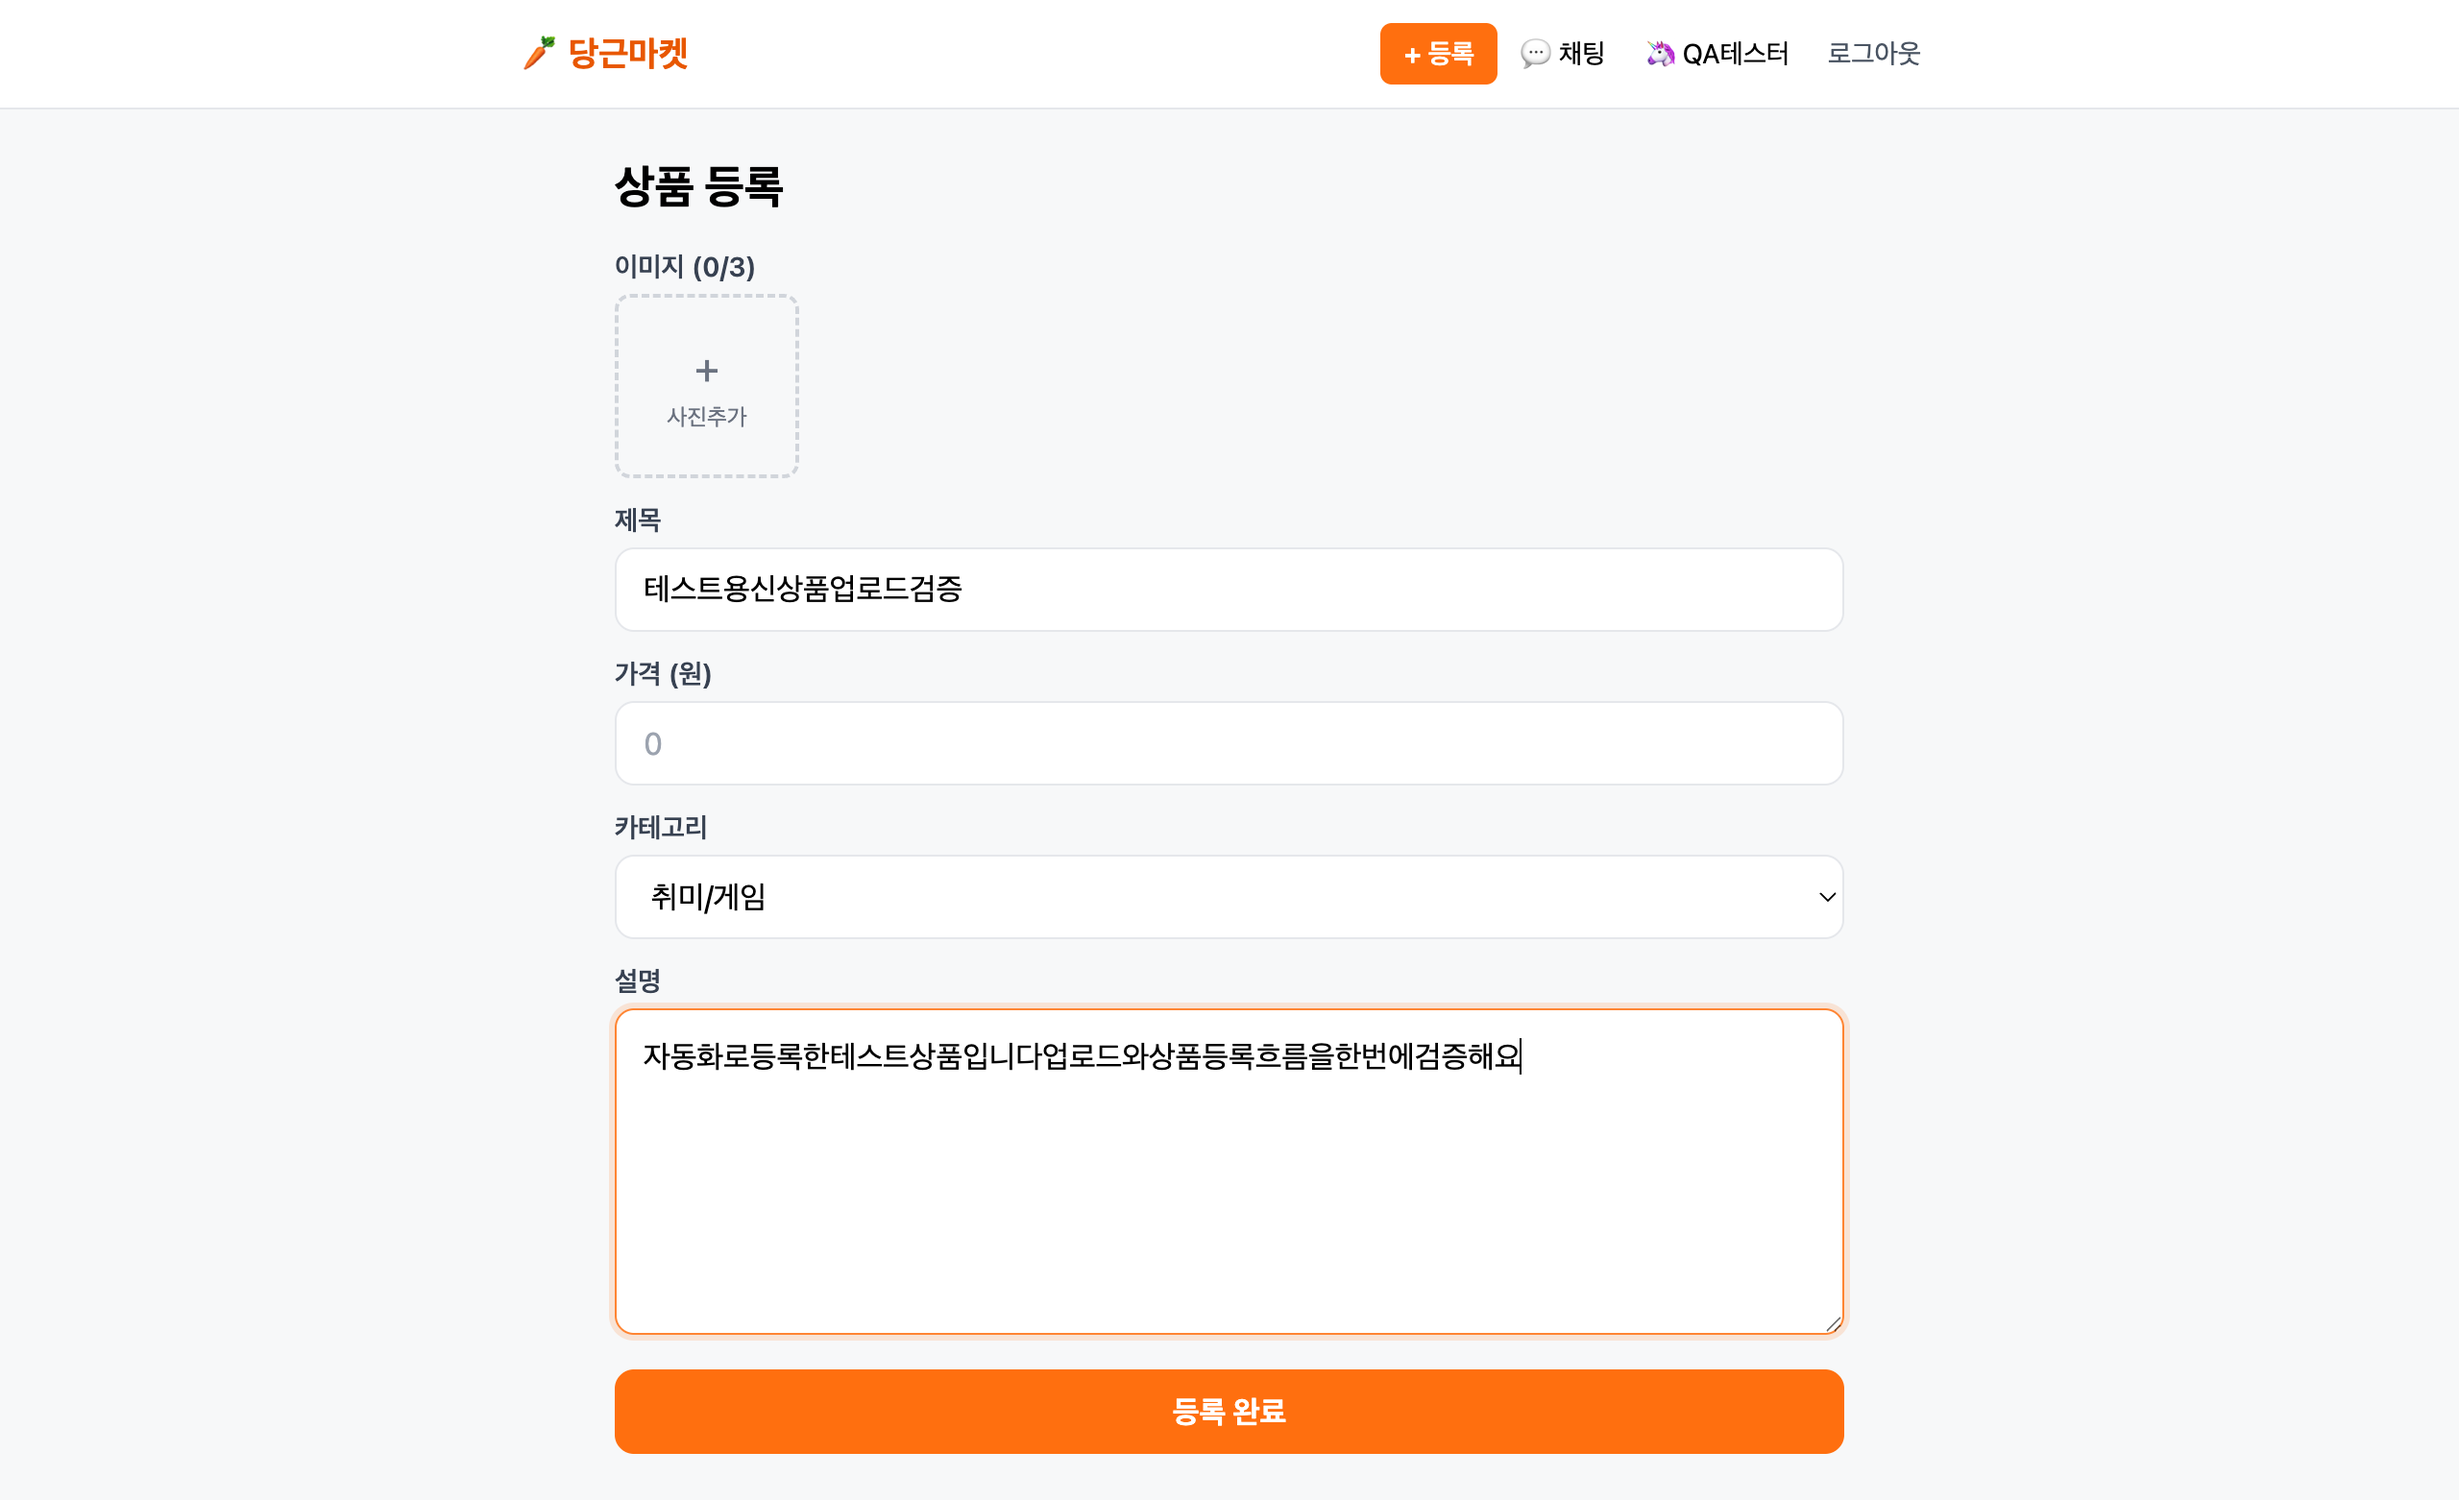
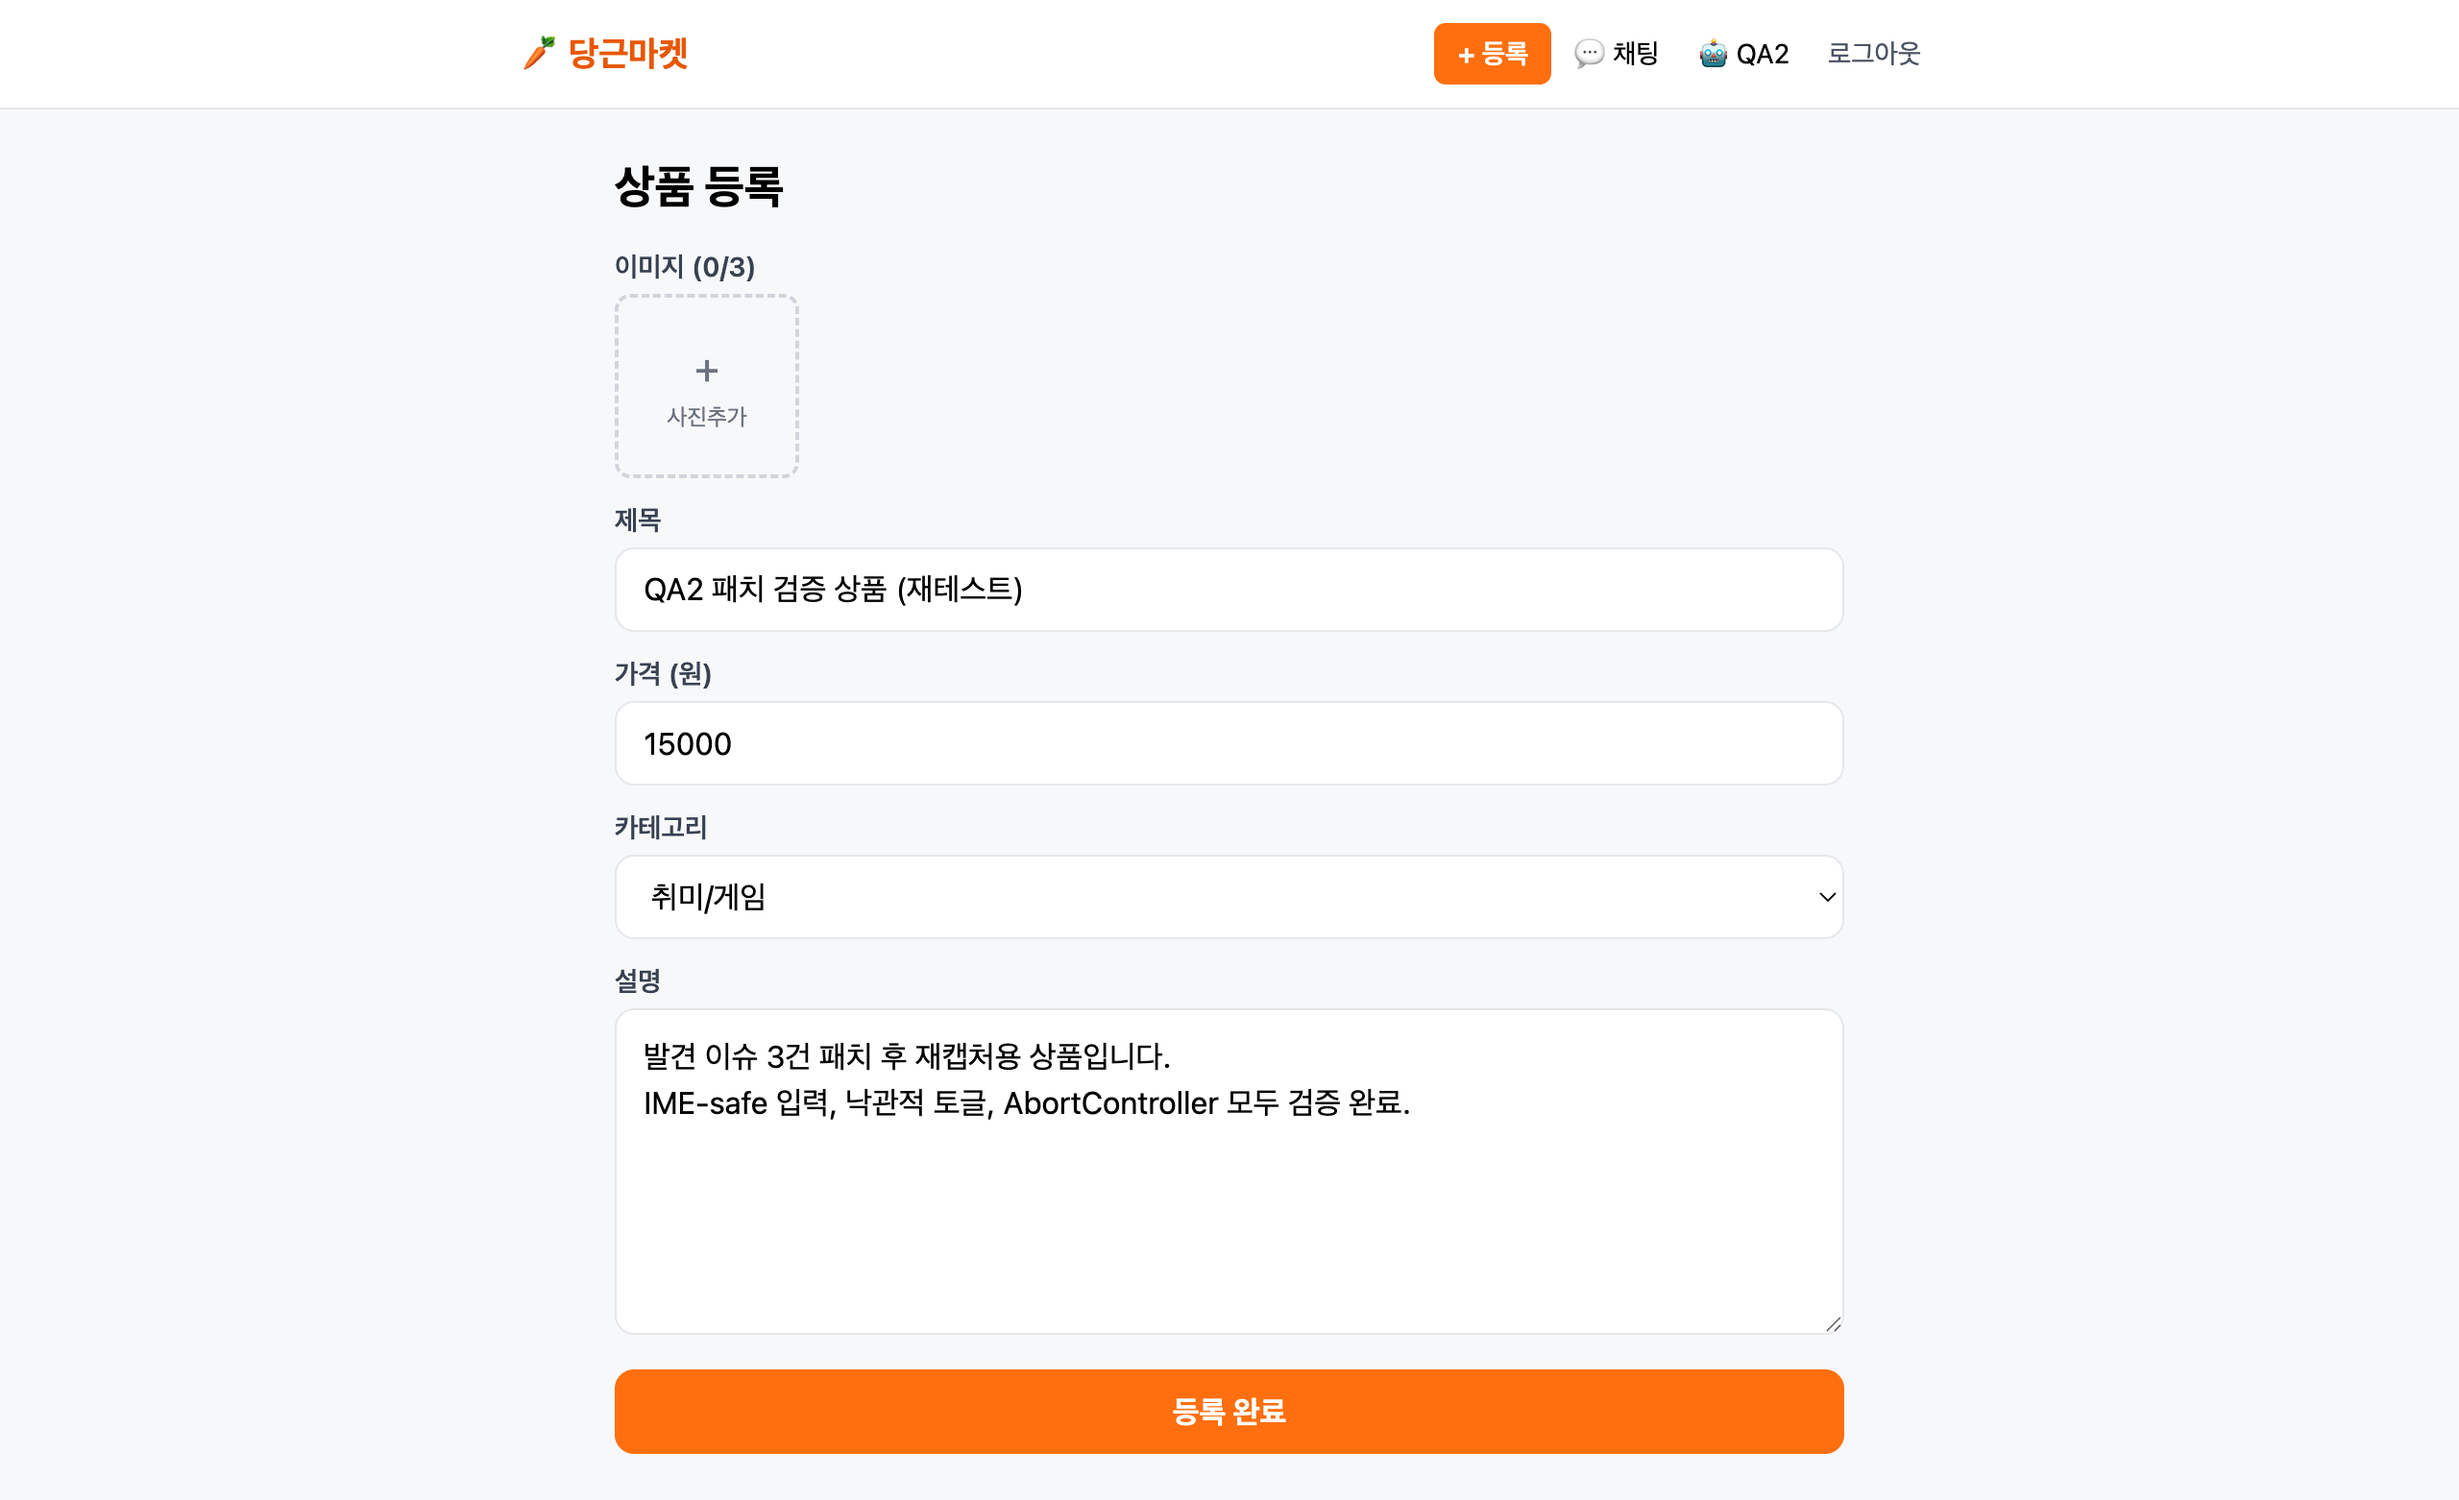
당근마켓 클론 패치 후 전체 케이스 재캡처
- 23개 스크린샷 모두 패치 적용 빌드(562732e)로 재촬영
- 신규 QA2 계정으로 가입→상품등록(이미지업로드 포함)→채팅→판매자 답장 풀 플로우
- 21~23: 패치 검증 (IME-safe Enter 송신, 낙관적 토글+채팅 연속 클릭, 빠른 페이지 전환에도 콘솔 0)
- 15/16, 19/20 탭 전환 캡처 타이밍 보정 (각 탭 별도 화면)

diff --git a/week-7/quest/당근마켓 클론/screenshot/TEST_REPORT.md b/week-7/quest/당근마켓 클론/screenshot/TEST_REPORT.md
@@ -1,16 +1,16 @@
 # 당근마켓 클론 — 케이스별 테스트 리포트
 
-**테스트 일시**: 2026-05-10
+**테스트 일시**: 2026-05-10 (재테스트 19:00, 패치 적용 빌드)
 **테스트 환경**: Chrome DevTools 자동화 (`mcp__chrome-devtools`) + 로컬 서버 `http://localhost:3000`
-**대상 빌드**: `main` 브랜치 commit `224cf71`
+**대상 빌드**: `main` 브랜치 commit `562732e` (이슈 3건 수정 후)
 
 ## 테스트 계정
 
 | 역할 | 이메일 | 비밀번호 |
 |---|---|---|
 | 👑 관리자 | `admin@carrot.test` | `admin1234` |
-| 일반 (판매자) | `minji@carrot.test` | `carrot123` |
-| 신규 가입 (구매자) | `qa.tester@carrot.test` | `qa12345` (테스트 중 신규 생성) |
+| 판매자 | `jihoon@carrot.test` | `carrot123` |
+| 신규 가입 (구매자) | `qa2.tester@carrot.test` | `qa12345` (재테스트에서 신규 생성) |
 
 ---
 
